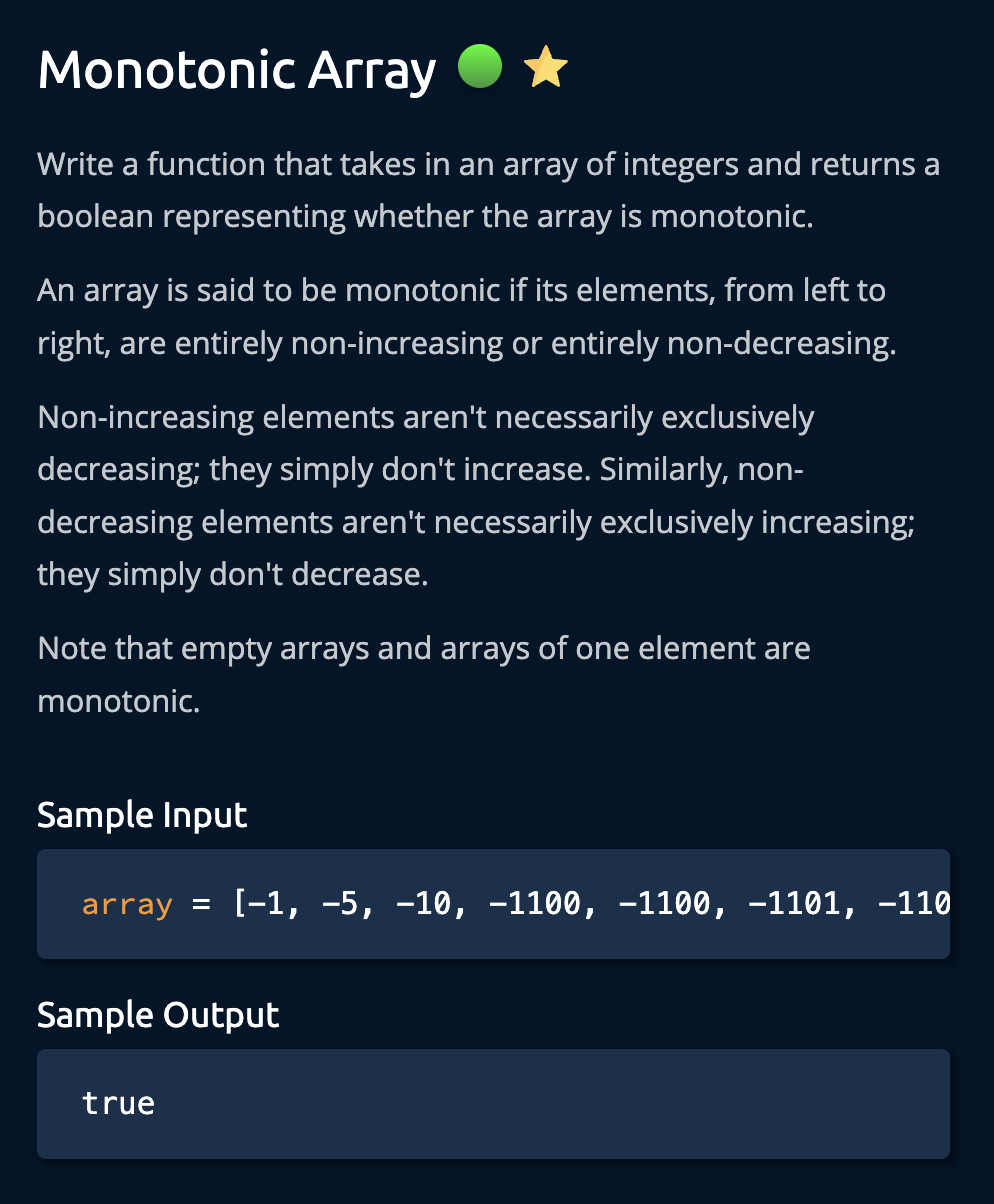
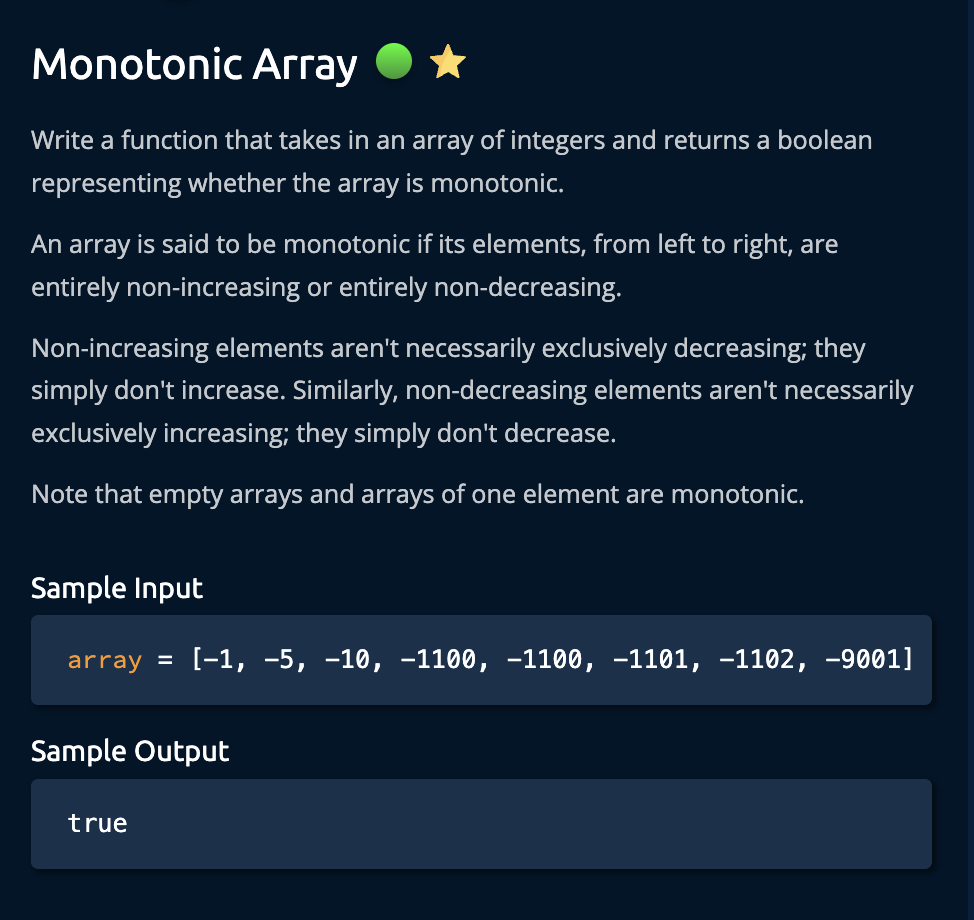
Add debug for isMonotonic

diff --git a/002-algoexpert/010-monotonic-array/001-solution/Debug.js b/002-algoexpert/010-monotonic-array/001-solution/Debug.js
@@ -1,0 +1,5 @@
+import Solution from "./Solution.js";
+
+const solution = new Solution();
+const result = solution.isMonotonic([-1, -5, -10, -1100, -1100, -1101, -1102, -9001]);
+console.log(result); // true

diff --git a/002-algoexpert/010-monotonic-array/002-solution/Debug.js b/002-algoexpert/010-monotonic-array/002-solution/Debug.js
@@ -1,0 +1,5 @@
+import Solution from "./Solution.js";
+
+const solution = new Solution();
+const result = solution.isMonotonic([-1, -5, -10, -1100, -1100, -1101, -1102, -9001]);
+console.log(result); // true
